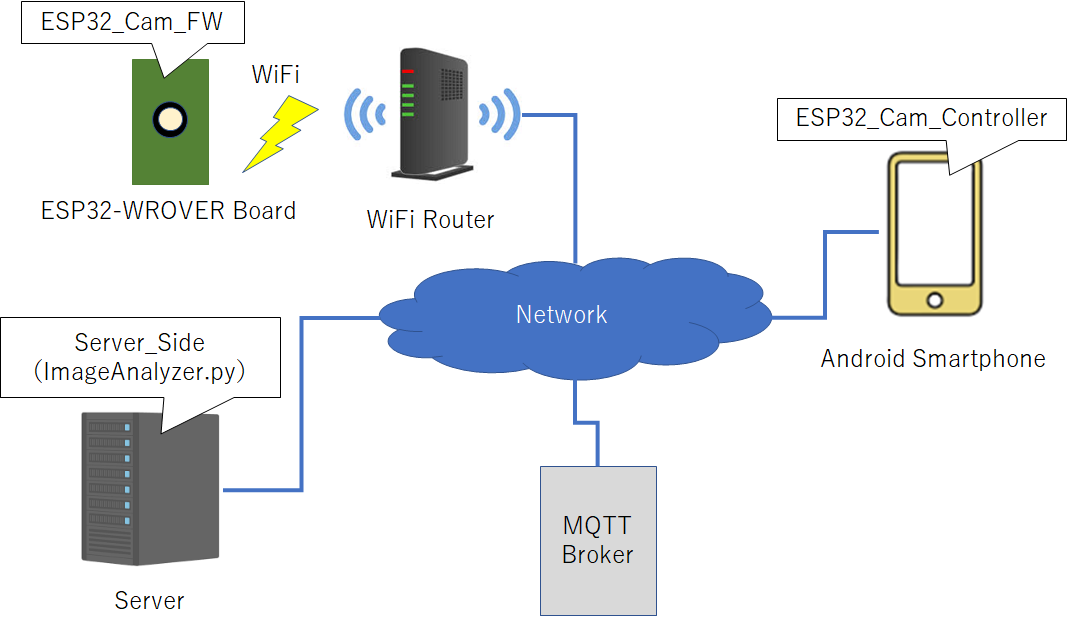
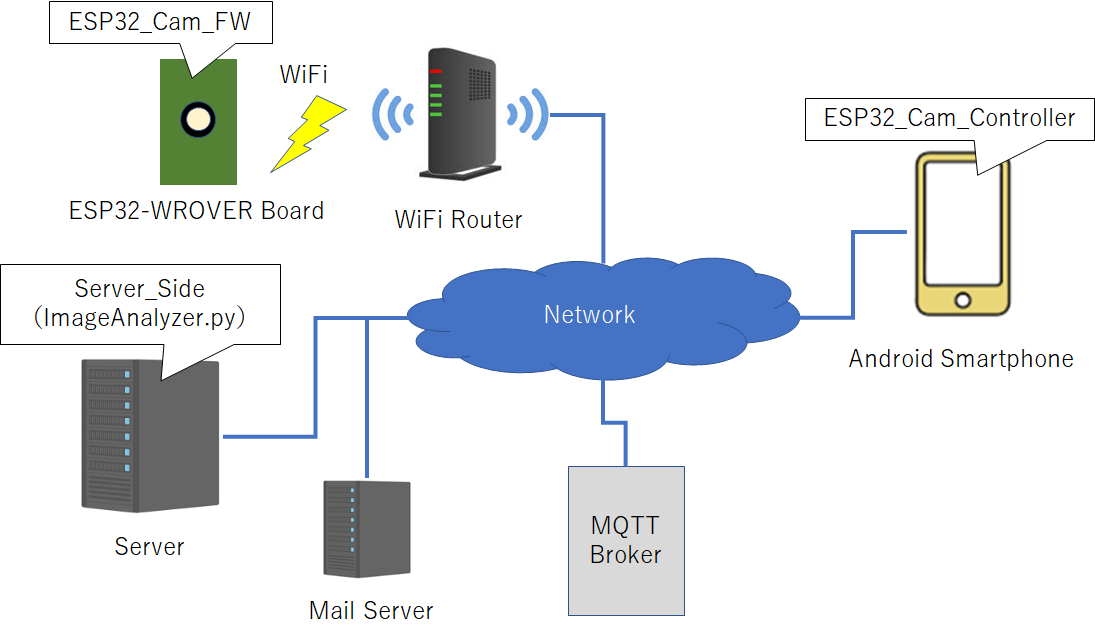
update document #7

diff --git a/README.md b/README.md
@@ -1,5 +1,5 @@
 # ESP32-CAM-System
-toy with ESP32-WROVER Board
+This is a toy using ESP32-WROVER Board
 
 ## Outline
 ### System connection diagram
@@ -9,13 +9,15 @@ toy with ESP32-WROVER Board
 #### ESP32_Cam_Controller
 The app is intended for Android with API34 or later.
 
-#### Server_Side
-This script is developed using following libraries.
-- Cython                        3.0.10
-- numpy                         1.26.1
-- onnx                          1.16.1
-- onnxruntime                   1.18.0
-- insightface                   0.7.3
+#### ESP32_Cam_AnalysisServer
+1. This script is developed using following libraries.
+    - Cython                        3.0.10
+    - numpy                         1.26.1
+    - onnx                          1.16.1
+    - onnxruntime                   1.18.0
+    - insightface                   0.7.3
+
+1. Setup the mail server of email address to use for sending warning email to be able to use from external application.
 
 #### ESP32_Cam_FW
 You have to make "wifi_setting.h" in the same directory with mqtt.cpp.
@@ -25,43 +27,80 @@ const char *ssid_Router = "hoge";
 const char *password_Router = "fuga";
 ```
 
+### Function
+#### ESP32_Cam_Controller
+This is the Android Application to control ESP32_Cam system (Front end of system).
+- You can order to capture realtime image with this app.
+    - Enable/disable to take photo periodicaly.
+        - Additionaly, interval time [msec] of this function.
+- This app can change settings of ESP32_Cam_FW and ESP32_Cam_AnalysisServer.
+    - Enable/disable to send warning Email if unknown person who is not accompanied by registered people is detected.
+        - Additionaly, what email address to which send.
+- It can check image which is result of analysis at ESP32_Cam_AnalysisServer.
+    - If any faces are detected, image with red circle on each detected faces will be shown.
+    - If any faces are NOT detected, raw image will be shown.
+
+#### ESP32_Cam_AnalysisServer
+This is the backend program of system developed with Python.
+
+Following process are executed.
+1. Receiving image from ESP32-WROVER Board when capture fucntion is proceeded.
+1. Analysing whether there are any faces or not.
+1. If any faces are detected execute following functions.
+    1. Creating proceeded image to emphasis each faces.
+    1. Check similarity with some faces registered.
+    1. If there are any unkown faces and there are no registered faces, send warning_email if necessary.
+1. Publishing proceeded image data via MQTT.
+
+#### ESP32_Cam_FW
+This is the FW of ESP32-WROVER Board.
+
+It takes pictures in real time or periodically according to the instructions of ESP32_Cam_Controller.
+
+After that, publish image data via MQTT.
+
+
 ## Sequence Outline
 ### Take photo and analyze it
 @startuml Take photo and analyze sequence
     participant ESP32_Cam_Controller as app
     participant ESP32_Cam_FW         as board
     participant MQTT_broker          as broker
-    participant Server_Side          as svr
+    participant ESP32_Cam_AnalysisServer          as svr
+    participant Mail_Server          as mailsvr
 
     activate broker
     activate app
     activate svr
     activate board
+    activate mailsvr
 
-    app -> broker : subscribe (esp32-cam/img/#)
+    app -> broker : subscribe (esp32-cam/img/analyzed)
     board -> broker : subscribe (esp32-cam/board/#)
-    svr -> broker : subscribe(esp32-cam/#)
+    svr -> broker : subscribe(esp32-cam/img/raw)
+    svr -> broker : subscribe(esp32-cam/server/#)
 
     app -> broker : publish (esp32-cam/board/control, shot : true)
     broker -> board : publish (esp32-cam/board/control, shot : true)
     board -> board : capture image
     board -> broker : publish (esp32-cam/img/raw, captured image)
-    broker -> app : publish (esp32-cam/img/raw, captured image)
-    alt app is showing raw image mode
-        app -> app : show subscribed image
-    end
     broker -> svr : publish (esp32-cam/img/raw, captured image)
     svr -> svr : face analysis
-    svr -> svr : create processed image data
+    alt face is detected
+        svr -> svr : create processed image data (add red circle on each face)
+    end
 
-    alt send with e-mail
-        svr -> svr : send e-mail with processed image data
-    else send with mqtt
-        svr -> broker : (esp32-cam/img/raw, captured image)
-        broker -> app : (esp32-cam/img/raw, captured image)
-        alt app is showing processed image mode
-            app -> app : show subscribed image
-        end
+    alt face is detected
+        svr -> svr : analyzed image = processed image
+    else
+        svr -> svr : analyzed image = raw image
+    end
+    svr -> broker : publish (esp32-cam/img/analyzed, analyzed image)
+    broker -> app : publish (esp32-cam/img/analyzed, analyzed image)
+    app -> app : show subscribed image
+
+    alt "warning mail" function is enabled
+        svr -> mailsvr : send e-mail with processed image data
     end
 @enduml
 
@@ -74,14 +113,14 @@ TODO Sequence Diaglam
 TODO setting about MQTT
 
 ### MQTT Messages
-| topic                    | payload                    | from   | to          | note                        |
-|--------------------------|----------------------------|--------|-------------|-----------------------------|
-| esp32-cam/img/raw        | captured image data        | Board  | Server, App |                             |
-| esp32-cam/img/processed  | analyzed image data        | Server | App         | used if set to send         |
-| esp32-cam/board/setting  | change setting of board    | App    | Board       |                             |
-| esp32-cam/board/control  | control message for board  | App    | Board       |                             |
-| esp32-cam/server/setting | change setting of server   | App    | Server      |                             |
-| esp32-cam/server/control | control message for server | App    | Server      | it is not used but reserved |
+| topic                    | payload                    | from   | to     | note                        |
+|--------------------------|----------------------------|--------|--------|-----------------------------|
+| esp32-cam/img/raw        | captured image data        | Board  | Server |                             |
+| esp32-cam/img/analyzed   | analyzed image data        | Server | App    | used if set to send         |
+| esp32-cam/board/setting  | change setting of board    | App    | Board  |                             |
+| esp32-cam/board/control  | control message for board  | App    | Board  |                             |
+| esp32-cam/server/setting | change setting of server   | App    | Server |                             |
+| esp32-cam/server/control | control message for server | App    | Server | it is not used but reserved |
 
 #### esp32-cam/board/setting
 
@@ -98,7 +137,7 @@ TODO setting about MQTT
 
 #### esp32-cam/server/setting
 
-| key        | value          | note                                           |
-|------------|----------------|------------------------------------------------|
-| send_image | mail/mqtt/none | send image with e-mail/MQTT, or not to send    |
-| image_type | raw/processed  | send raw-data/processed-data of detected image |
+| key           | value            | note                                                                                                     |
+|---------------|------------------|----------------------------------------------------------------------------------------------------------|
+| warning_email | true/false       | send image with e-mail if unknown faces have been detected<br>(and there is no face which is registered) |
+| email_address | [address string] | destination email address to which warning email is sent                                                 |
